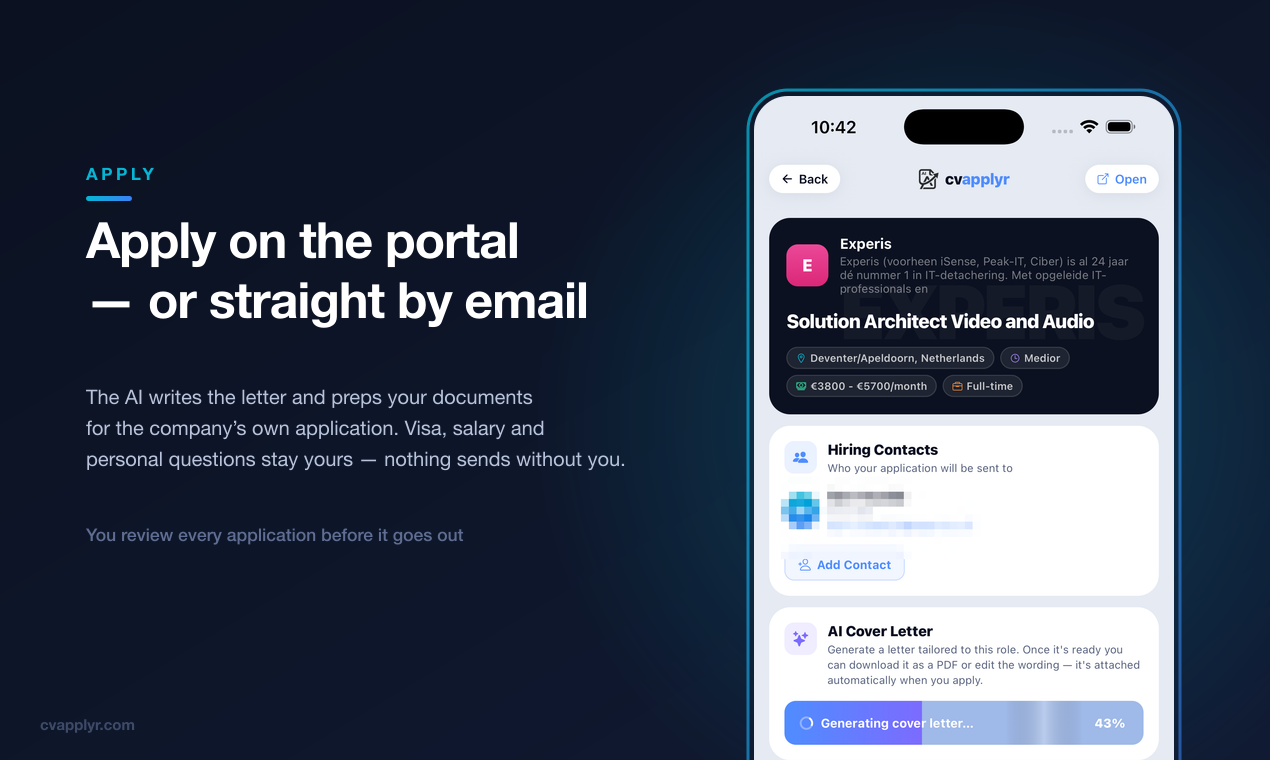
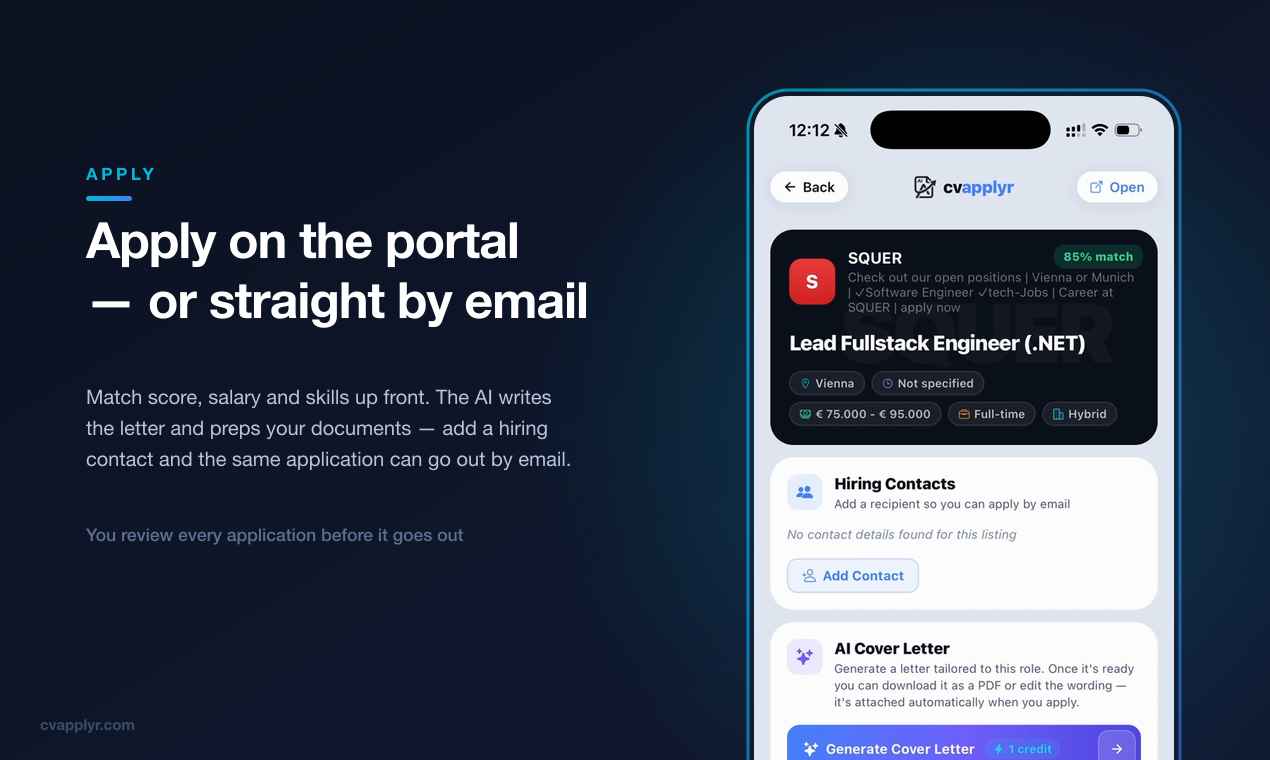
PH gallery v4: current-UI video frames, hand-picked, dot-scrubbed
The store-screenshot set was rejected as outdated UI. Back to the July
recordings, but with the big-phone layout and every timestamp chosen from
contact sheets: Job tools dock hero, real-Google AI Overview, job detail
with match %, the Still-needs-you list, the Applied toast. The iOS
screen-recording red dot is patched out inside the island pill. 8 images.

Changed region(s): [[0.5835, 0.1211, 0.9213, 1.0], [0.0614, 0.5145, 0.4913, 0.6355]]

diff --git a/tools/build-ph-images.js b/tools/build-ph-images.js
@@ -1,95 +1,103 @@
-// Product Hunt gallery images — 1270x760, built from the SAME simulator screenshots as the
-// uploaded App Store set (marketing/iOS, June 10 captures) + the brand kit.
+// Product Hunt gallery images — 1270x760, built from the July 2026 feature recordings + brand kit.
 //
-// v2 used video frames; the user rejected them ("not up to the mark") — video compression and
-// mid-animation frames read badly at gallery size. These are the crisp native captures behind
-// marketing/store-screenshots/apple/*, so the PH gallery matches what's live on the stores.
+// History: v2 used video frames the user rejected (small phone, mid-animation frames); v3 used the
+// June simulator captures behind the App Store set, rejected as "older screenshots". v4 = video
+// frames again (current UI: Job tools dock, Still-needs-you list, Applied toast) but with the v3
+// layout — big phone bleeding off the bottom — and every timestamp hand-picked from contact sheets
+// to land on a static, fully-rendered screen.
 //
-// ⚠ PRIVACY: two source shots contain REAL recruiter names/emails (Experis contacts). The store
-// set pixelated them; the same blur boxes are replicated here. Never ship these without the blur.
+// Frames are extracted frame-accurately (⚠ -ss AFTER -i; keyframe seeking lands on the wrong
+// screen; the recordings are VFR so always re-verify visually after changing a timestamp).
 //
-// Every headline names what the AI actually DOES (reads the posting / writes the letter / preps
-// the application) — captions must match the visible UI, and the guardrails ban vague filler.
+// Privacy: the chosen frames contain NO real-person data — the persona is the fictional
+// "John Mathews" (cvapplyrtest@gmail.com) and the SQUER Hiring Contacts card is empty.
+// ⚠ If you add or move a frame, re-check it for real names/emails before shipping.
 //
 // Usage: node tools/build-ph-images.js
 'use strict';
+const { execFileSync } = require('child_process');
 const fs = require('fs');
 const path = require('path');
 const sharp = require('sharp');
 
-const RAW_DIR = path.join(__dirname, '..', 'marketing', 'iOS');
+const SRC_DIR = '/Volumes/External/Work/cvApplyr/Videos/July 2026/Edited';
 const OUT_DIR = path.join(__dirname, '..', 'Claude', 'cvApplyr', 'ph_gallery');
+const TMP = path.join(require('os').tmpdir(), 'cvf-ph-images');
 
 const W = 1270, H = 760;
-const SRC_W = 1320, SRC_H = 2868;
+const CROP = { x: 712, y: 0, w: 496, h: 1080 };        // phone strip inside the 1920x1080 recordings
 const PHONE_W = 420;                                    // phone bleeds off the bottom edge
 const PHONE_X = W - PHONE_W - 96;
 const PHONE_Y = 96;
 const PHONE_R = 34;
 
-// sorted() order matches marketing/store-screenshots/make_store_shots.py IOS[] indices
-const RAW = fs.readdirSync(RAW_DIR).filter((f) => f.endsWith('.png')).sort()
-  .map((f) => path.join(RAW_DIR, f));
-
-// blur boxes in full-res source coords [x0, y0, x1, y1] — same as the uploaded store set
-const BLURS = {
-  5: [[85, 1195, 1000, 1455]],  // apply screen: hiring-contact block (taller than the store box — it clipped the name's top)
-  6: [[200, 850, 950, 935]],    // email compose: To: address
+const V = {
+  resume: 'Resume Builder.mov',
+  fetch: 'Fetch Job and Generate Cover Letter.mov',
+  apply: 'Apply Job with Auto Fill.mov',
 };
 
 // kicker = cyan eyebrow; head lines drawn as given (manual wrapping = no surprises)
 const IMAGES = [
   {
-    id: '01_hero', src: 11,
+    id: '01_hero', v: 'apply', t: 14.4,                 // Job tools dock over SQUER's own portal
     kicker: 'CVAPPLYR — AI JOB APPLICATIONS',
     head: ['The AI that does the', 'job-hunt paperwork'],
-    sub: ['Point it at any company. The AI finds their live jobs,', 'writes your cover letter and preps the application.', 'You review everything — and you hit submit.'],
+    sub: ['Find jobs on the real Google. The AI reads the posting,', 'writes your cover letter and fills the employer’s own', 'application form. You review — and you hit submit.'],
     foot: 'cvapplyr.com  ·  iOS + Android',
   },
   {
-    id: '02_livejobs', src: 3,
-    kicker: 'LIVE JOBS',
-    head: ['Real roles, from the', 'employer’s own site'],
-    sub: ['No stale board copies. The AI reads each company’s', 'careers page and pulls the live openings — title,', 'location, skills, and salary when listed.'],
-    foot: 'Straight from the source, not a scraped feed',
+    id: '02_google', v: 'fetch', t: 4.6,                // real Google results, AI Overview, Job tools FAB
+    kicker: 'SEARCH',
+    head: ['The real Google,', 'inside the app'],
+    sub: ['No scraped listings, no stale board. Open any result —', 'tap the robot on the job’s own page and the AI reads', 'and saves the posting with full details.'],
+    foot: 'Works on any job site — even ones we’ve never seen',
   },
   {
-    id: '03_apply', src: 5,
+    id: '03_apply', v: 'apply', t: 2.0,                 // job detail: match %, salary, contacts, AI letter
     kicker: 'APPLY',
     head: ['Apply on the portal', '— or straight by email'],
-    sub: ['The AI writes the letter and preps your documents', 'for the company’s own application. Visa, salary and', 'personal questions stay yours — nothing sends without you.'],
+    sub: ['Match score, salary and skills up front. The AI writes', 'the letter and preps your documents — add a hiring', 'contact and the same application can go out by email.'],
     foot: 'You review every application before it goes out',
   },
   {
-    id: '04_coverletter', src: 10,
+    id: '04_autofill', v: 'apply', t: 15.7,             // "Done — review & submit" + STILL NEEDS YOU list
+    kicker: 'AUTO FILL',
+    head: ['AI fills the form.', 'You stay in charge.'],
+    sub: ['It completes the company’s own application and lists', 'what still needs you. Visa, salary and personal questions', 'are always yours — nothing is submitted without you.'],
+    foot: 'Works on the employer’s own career portal',
+  },
+  {
+    id: '05_coverletter', v: 'apply', t: 5.5,           // Cover Letter, country tabs, photo template
     kicker: 'COVER LETTERS',
     head: ['Written from the', 'real posting'],
     sub: ['The AI reads the actual job description and writes', 'for it — not a template. Pick the format the country', 'expects. Preview free, download as PDF or Word.'],
     foot: 'Country-correct formats, ready to attach',
   },
   {
-    id: '05_email', src: 6,
-    kicker: 'EMAIL APPLY',
-    head: ['Email the recruiter,', 'documents attached'],
-    sub: ['The app finds recruiter and HR contacts — with verified', 'emails where available — and drafts the email with your', 'résumé and tailored letter already attached.'],
-    foot: 'You press send — always',
-  },
-  {
-    id: '06_resume', src: 9,
+    id: '06_resume', v: 'resume', t: 1.6,               // "Tell Us Your Story", no keyboard
     kicker: 'RÉSUMÉ BUILDER',
     head: ['Paste your messy story.', 'Get a clean résumé.'],
     sub: ['Old résumé text, a LinkedIn bio, rough notes — the AI', 'structures it into an ATS-friendly résumé, with every', 'section editable before you export.'],
     foot: 'Your words in, a hiring-ready document out',
   },
   {
-    id: '07_formats', src: 8,
+    id: '07_formats', v: 'resume', t: 6.5,              // Choose a Format, Azure Sidebar template
     kicker: 'COUNTRY FORMATS',
     head: ['One profile.', 'Every country’s format.'],
     sub: ['Swipe to compare designs and switch region any time —', 'the same profile exports in the format local', 'recruiters expect. Previews are free.'],
+    foot: 'Generic, USA/Canada, UK/Australia and more',
+  },
+  {
+    id: '08_applied', v: 'apply', t: 18.4,              // green "marked as Applied" toast on the thank-you page
+    kicker: 'TRACKING',
+    head: ['Submitted — and', 'tracked automatically'],
+    sub: ['The app detects the employer’s real “thank you” page', 'and marks the job Applied on your dashboard — no', 'manual logging, no spreadsheets.'],
     foot: 'Free to download, credit packs for AI actions',
   },
 ];
 
+const sh = (cmd, args) => execFileSync(cmd, args, { stdio: ['ignore', 'pipe', 'pipe'] });
 const esc = (s) => String(s).replace(/&/g, '&amp;').replace(/</g, '&lt;').replace(/>/g, '&gt;');
 
 function backdropSvg(img) {
@@ -132,45 +140,33 @@ function backdropSvg(img) {
 const phoneMask = (w, h, r) => Buffer.from(
   `<svg width="${w}" height="${h}" xmlns="http://www.w3.org/2000/svg"><rect width="${w}" height="${h + r}" rx="${r}" ry="${r}" fill="#fff"/></svg>`);
 
-async function pixelate(srcPath, boxes) {
-  const buf = fs.readFileSync(srcPath);
-  const overlays = [];
-  for (const [x0, y0, x1, y1] of boxes) {
-    const w = x1 - x0, h = y1 - y0;
-    // ⚠ two resizes must be separate pipelines — chained .resize() calls override, not compose
-    const small = await sharp(buf)
-      .extract({ left: x0, top: y0, width: w, height: h })
-      .resize(Math.max(1, Math.round(w / 24)), Math.max(1, Math.round(h / 24)), { fit: 'fill' })
-      .png().toBuffer();
-    const region = await sharp(small)
-      .resize(w, h, { fit: 'fill', kernel: 'nearest' })
-      .png().toBuffer();
-    overlays.push({ input: region, left: x0, top: y0 });
-  }
-  return sharp(buf).composite(overlays).png().toBuffer();
-}
+// the recordings carry iOS's red screen-recording dot inside the (pure black) island pill at a
+// fixed spot — a black circle over it reads as a normal pill (source coords, same in every video)
+const RECORD_DOT_PATCH = Buffer.from(
+  `<svg width="${CROP.w}" height="${CROP.h}" xmlns="http://www.w3.org/2000/svg"><circle cx="159" cy="40" r="15" fill="#000"/></svg>`);
 
 (async () => {
+  fs.rmSync(TMP, { recursive: true, force: true });
+  fs.mkdirSync(TMP, { recursive: true });
   fs.mkdirSync(OUT_DIR, { recursive: true });
-  // clear v2 leftovers so the folder is exactly this set
+  // clear the previous set so the folder is exactly this one
   for (const f of fs.readdirSync(OUT_DIR)) fs.unlinkSync(path.join(OUT_DIR, f));
   let total = 0;
 
   for (const img of IMAGES) {
-    const srcPath = RAW[img.src];
-    if (!srcPath) throw new Error('missing raw screenshot index ' + img.src);
-    const meta = await sharp(srcPath).metadata();
-    if (meta.width !== SRC_W || meta.height !== SRC_H) {
-      throw new Error(`${path.basename(srcPath)} is ${meta.width}x${meta.height}, expected ${SRC_W}x${SRC_H}`);
-    }
+    const src = path.join(SRC_DIR, V[img.v]);
+    if (!fs.existsSync(src)) throw new Error('missing source: ' + src);
+    const framePng = path.join(TMP, img.id + '.png');
+    sh('ffmpeg', ['-v', 'error', '-i', src, '-ss', String(img.t),
+      '-vf', `crop=${CROP.w}:${CROP.h}:${CROP.x}:${CROP.y}`, '-frames:v', '1', framePng, '-y']);
 
-    const srcBuf = BLURS[img.src]
-      ? await pixelate(srcPath, BLURS[img.src])
-      : fs.readFileSync(srcPath);
+    const cleaned = await sharp(framePng)
+      .composite([{ input: RECORD_DOT_PATCH }])
+      .png().toBuffer();
 
     const visibleH = H - PHONE_Y;                       // phone bleeds off the bottom
-    const phone = await sharp(srcBuf)
-      .resize(PHONE_W, Math.round(SRC_H * PHONE_W / SRC_W), { kernel: 'lanczos3' })
+    const phone = await sharp(cleaned)
+      .resize(PHONE_W, Math.round(CROP.h * PHONE_W / CROP.w), { kernel: 'lanczos3' })
       .extract({ left: 0, top: 0, width: PHONE_W, height: visibleH })
       .composite([{ input: phoneMask(PHONE_W, visibleH, PHONE_R), blend: 'dest-in' }])
       .png().toBuffer();
@@ -182,7 +178,7 @@ async function pixelate(srcPath, boxes) {
 
     const kb = Math.round(fs.statSync(out).size / 1024);
     total += kb;
-    console.log(`${img.id.padEnd(16)} ${W}x${H}  ${kb} KB  (raw #${img.src}${BLURS[img.src] ? ', blurred' : ''})`);
+    console.log(`${img.id.padEnd(16)} ${W}x${H}  ${kb} KB  (${img.v} @ ${img.t}s)`);
   }
   console.log(`\n${IMAGES.length} gallery images, ${Math.round(total / 1024 * 10) / 10} MB → ${OUT_DIR}`);
 })().catch((e) => { console.error(e.message); process.exit(1); });

diff --git a/Claude/cvApplyr/ProductHunt_Launch_Kit_v2.md b/Claude/cvApplyr/ProductHunt_Launch_Kit_v2.md
@@ -99,17 +99,18 @@ I'd especially love to hear from people applying into a country that isn't their
 
 **Deliberately not in scope, and staying that way:** it never auto-submits anything; it never mass-applies or bulk-sends; it never answers visa, work-authorization, salary, or demographic questions (those go to the "Still needs you" list); it never sends from any account other than your own; it runs no job board of its own; and it makes no promises about jobs, interviews, reply rates, or email discovery. The restraint is the feature.
 
-## 8. Gallery image captions (7, in upload order)
+## 8. Gallery image captions (8, in upload order)
 
-1. **Hero (Job Hub):** The AI that does the job-hunt paperwork. Point it at any company — it finds their live jobs, writes your cover letter, and preps the application. You review everything, and you hit submit.
-2. **Live jobs:** Real roles from the employer's own site — title, location, skills, and salary when listed. Not a scraped feed.
-3. **Apply:** Apply on the company's own portal or straight by email. Visa, salary, and personal questions stay yours — nothing sends without you.
-4. **Cover letters:** Written from the real posting the app just read — not a template. Country-correct formats, preview free, PDF or Word.
-5. **Email apply:** Recruiter and HR contacts — with verified emails where available — and a drafted email with your documents already attached. You press send, always.
+1. **Hero (Auto Fill dock):** The AI that does the job-hunt paperwork — it reads the posting, writes your cover letter, and fills the employer's own form. You review, and you hit submit.
+2. **Search:** The real Google, inside the app. Open any result, tap the robot on the job's own page, and the AI reads and saves the posting.
+3. **Apply:** Match score, salary, and skills up front. Apply on the company's own portal — or add a hiring contact and go straight by email.
+4. **Auto Fill:** It fills the form and lists what still needs you. Visa, salary, and personal questions are always yours — nothing is submitted without you.
+5. **Cover letters:** Written from the real posting the app just read — not a template. Country-correct formats, preview free, PDF or Word.
 6. **Resume builder:** Paste your messy career story. The AI structures it into a clean, ATS-friendly résumé, every section editable.
 7. **Country formats:** One profile, exported in the format local recruiters expect. Swipe to compare designs; previews are free.
+8. **Tracking:** The app detects the employer's real "thank you" page and marks the job Applied on your dashboard automatically.
 
-All seven (files in Claude/cvApplyr/ph_gallery/, 1270×760) are built from the SAME June simulator captures as the live App Store screenshots — crisp native shots, with the real recruiter contact details pixelated exactly as in the store set. Rebuild any time with `node tools/build-ph-images.js`.
+All eight (files in Claude/cvApplyr/ph_gallery/, 1270×760) are frame-accurate stills from the July 2026 feature recordings — the current UI, including the Job tools dock, the "Still needs you" list, and the Applied toast. No real-person data appears (the persona is the fictional John Mathews) and the iOS screen-recording dot is scrubbed. Rebuild any time with `node tools/build-ph-images.js`.
 
 ## 9. Tags
 
